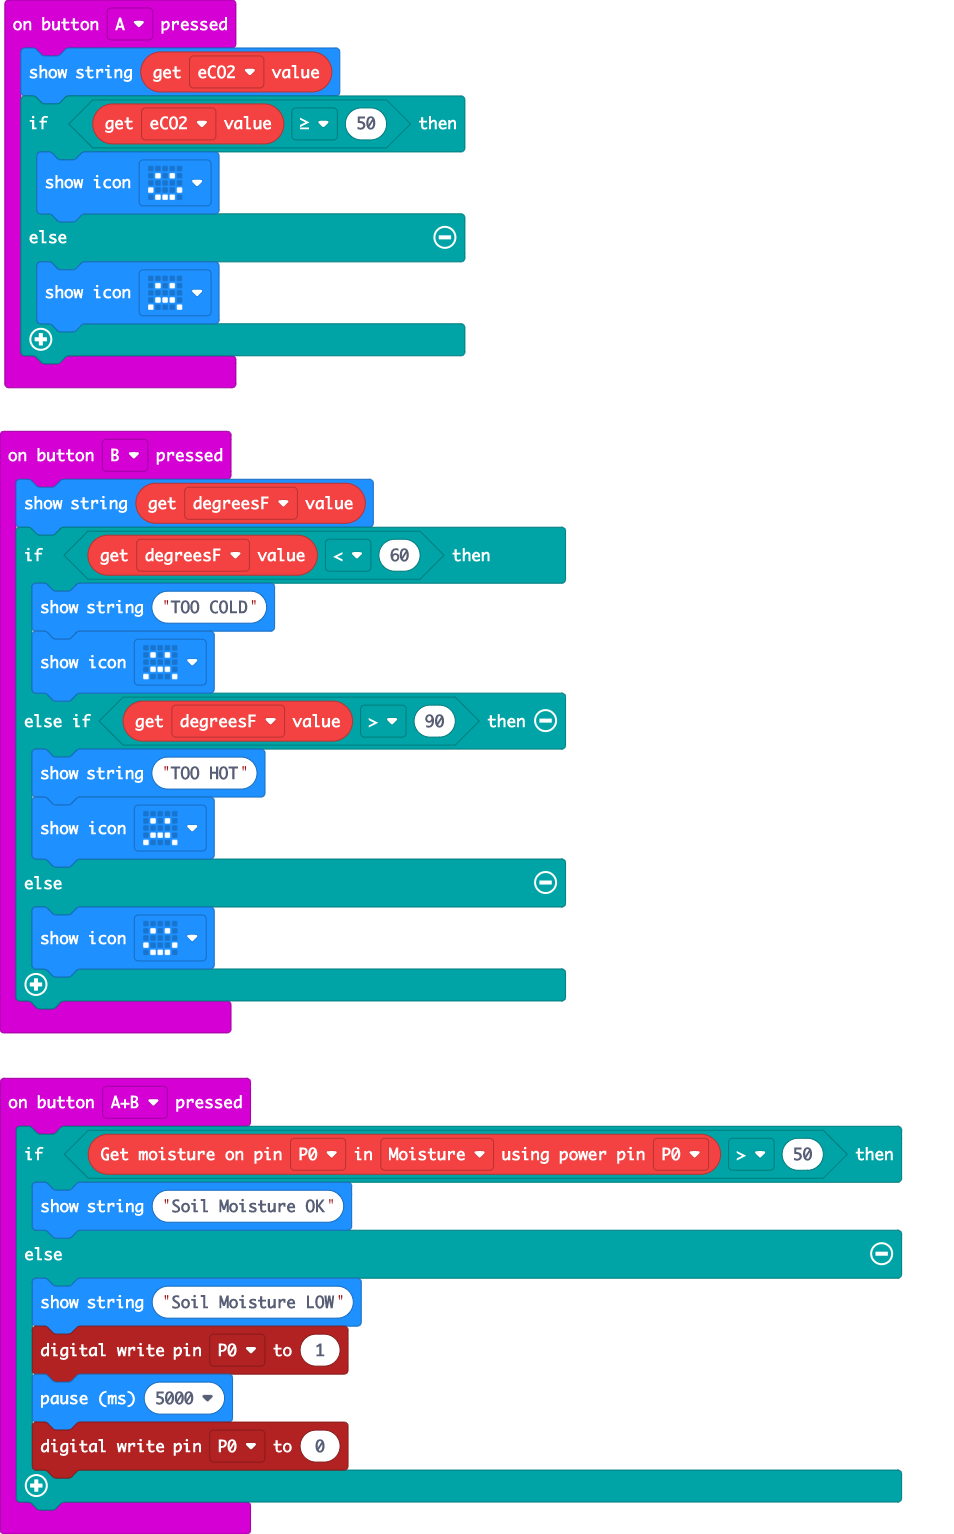
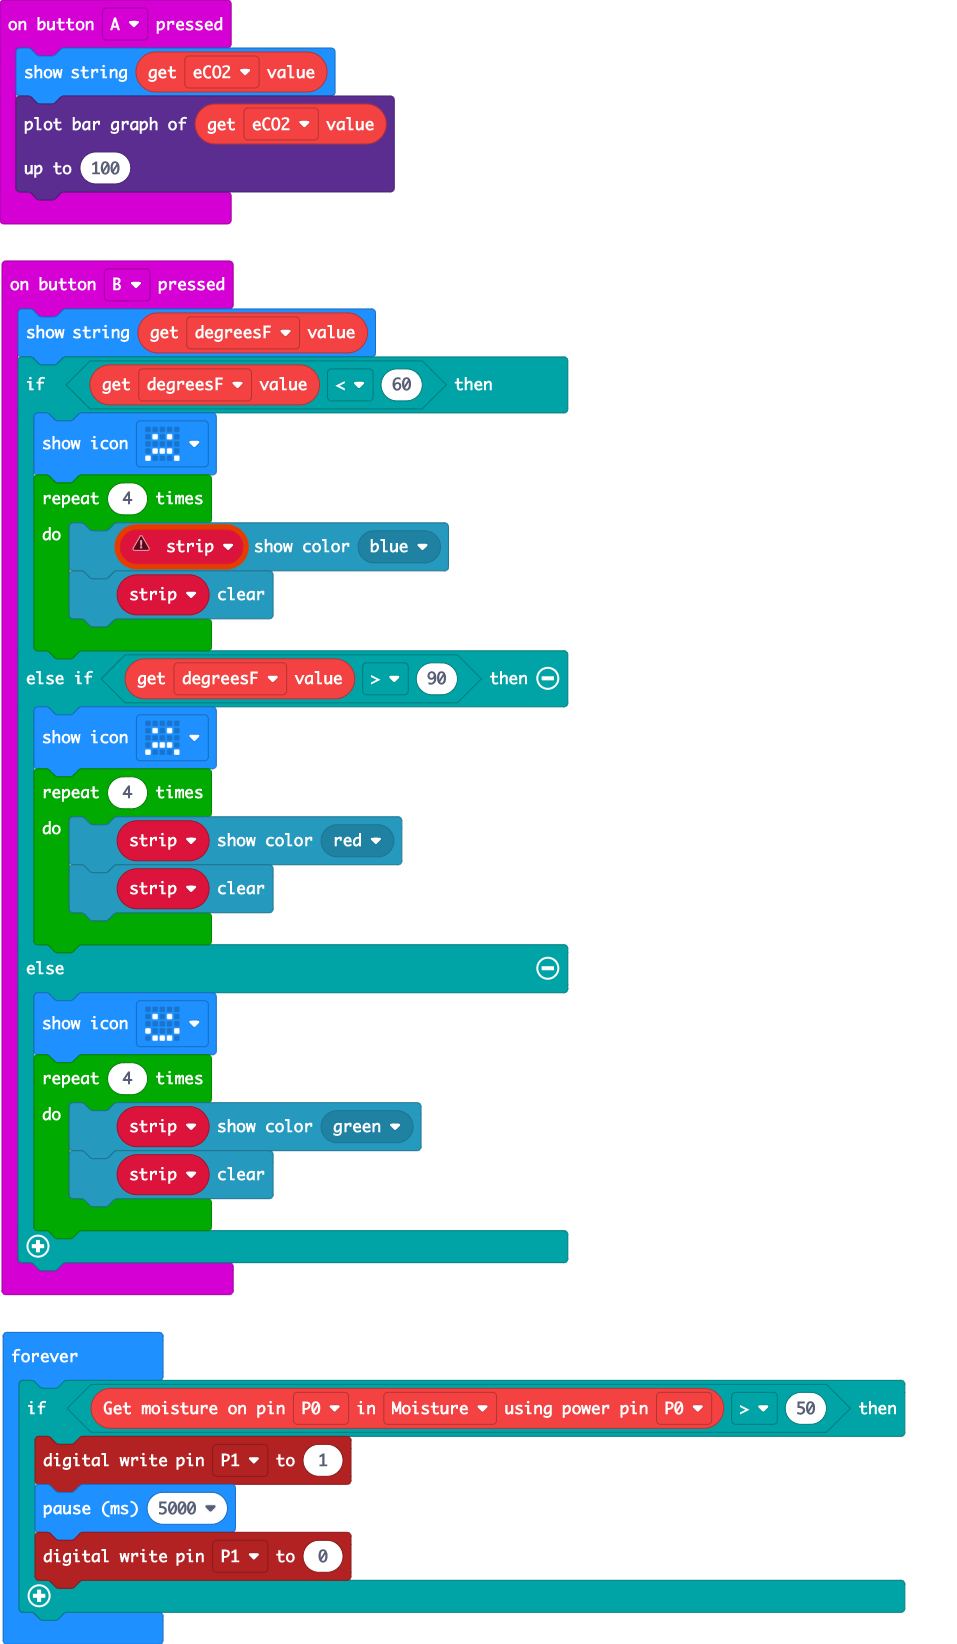
Update pxt.json, main.blocks, main.ts

diff --git a/main.ts b/main.ts
@@ -1,30 +1,37 @@
 input.onButtonPressed(Button.A, function () {
     basic.showString("" + (gatorEnvironment.getMeasurement(measurementType.eCO2)))
-    if (gatorEnvironment.getMeasurement(measurementType.eCO2) >= 50) {
-        basic.showIcon(IconNames.Happy)
-    } else {
-        basic.showIcon(IconNames.Sad)
-    }
-})
-input.onButtonPressed(Button.AB, function () {
-    if (gatorSoil.moisture(AnalogPin.P0, GatorSoilType.Moisture, DigitalPin.P0) > 50) {
-        basic.showString("Soil Moisture OK")
-    } else {
-        basic.showString("Soil Moisture LOW")
-        pins.digitalWritePin(DigitalPin.P0, 1)
-        basic.pause(5000)
-        pins.digitalWritePin(DigitalPin.P0, 0)
-    }
+    led.plotBarGraph(
+    gatorEnvironment.getMeasurement(measurementType.eCO2),
+    100
+    )
 })
 input.onButtonPressed(Button.B, function () {
+    let strip: neopixel.Strip = null
     basic.showString("" + (gatorEnvironment.getMeasurement(measurementType.degreesF)))
     if (gatorEnvironment.getMeasurement(measurementType.degreesF) < 60) {
-        basic.showString("TOO COLD")
         basic.showIcon(IconNames.Sad)
+        for (let index = 0; index < 4; index++) {
+            strip.showColor(neopixel.colors(NeoPixelColors.Blue))
+            strip.clear()
+        }
     } else if (gatorEnvironment.getMeasurement(measurementType.degreesF) > 90) {
-        basic.showString("TOO HOT")
         basic.showIcon(IconNames.Sad)
+        for (let index = 0; index < 4; index++) {
+            strip.showColor(neopixel.colors(NeoPixelColors.Red))
+            strip.clear()
+        }
     } else {
         basic.showIcon(IconNames.Happy)
+        for (let index = 0; index < 4; index++) {
+            strip.showColor(neopixel.colors(NeoPixelColors.Green))
+            strip.clear()
+        }
+    }
+})
+basic.forever(function () {
+    if (gatorSoil.moisture(AnalogPin.P0, GatorSoilType.Moisture, DigitalPin.P0) > 50) {
+        pins.digitalWritePin(DigitalPin.P1, 1)
+        basic.pause(5000)
+        pins.digitalWritePin(DigitalPin.P1, 0)
     }
 })
